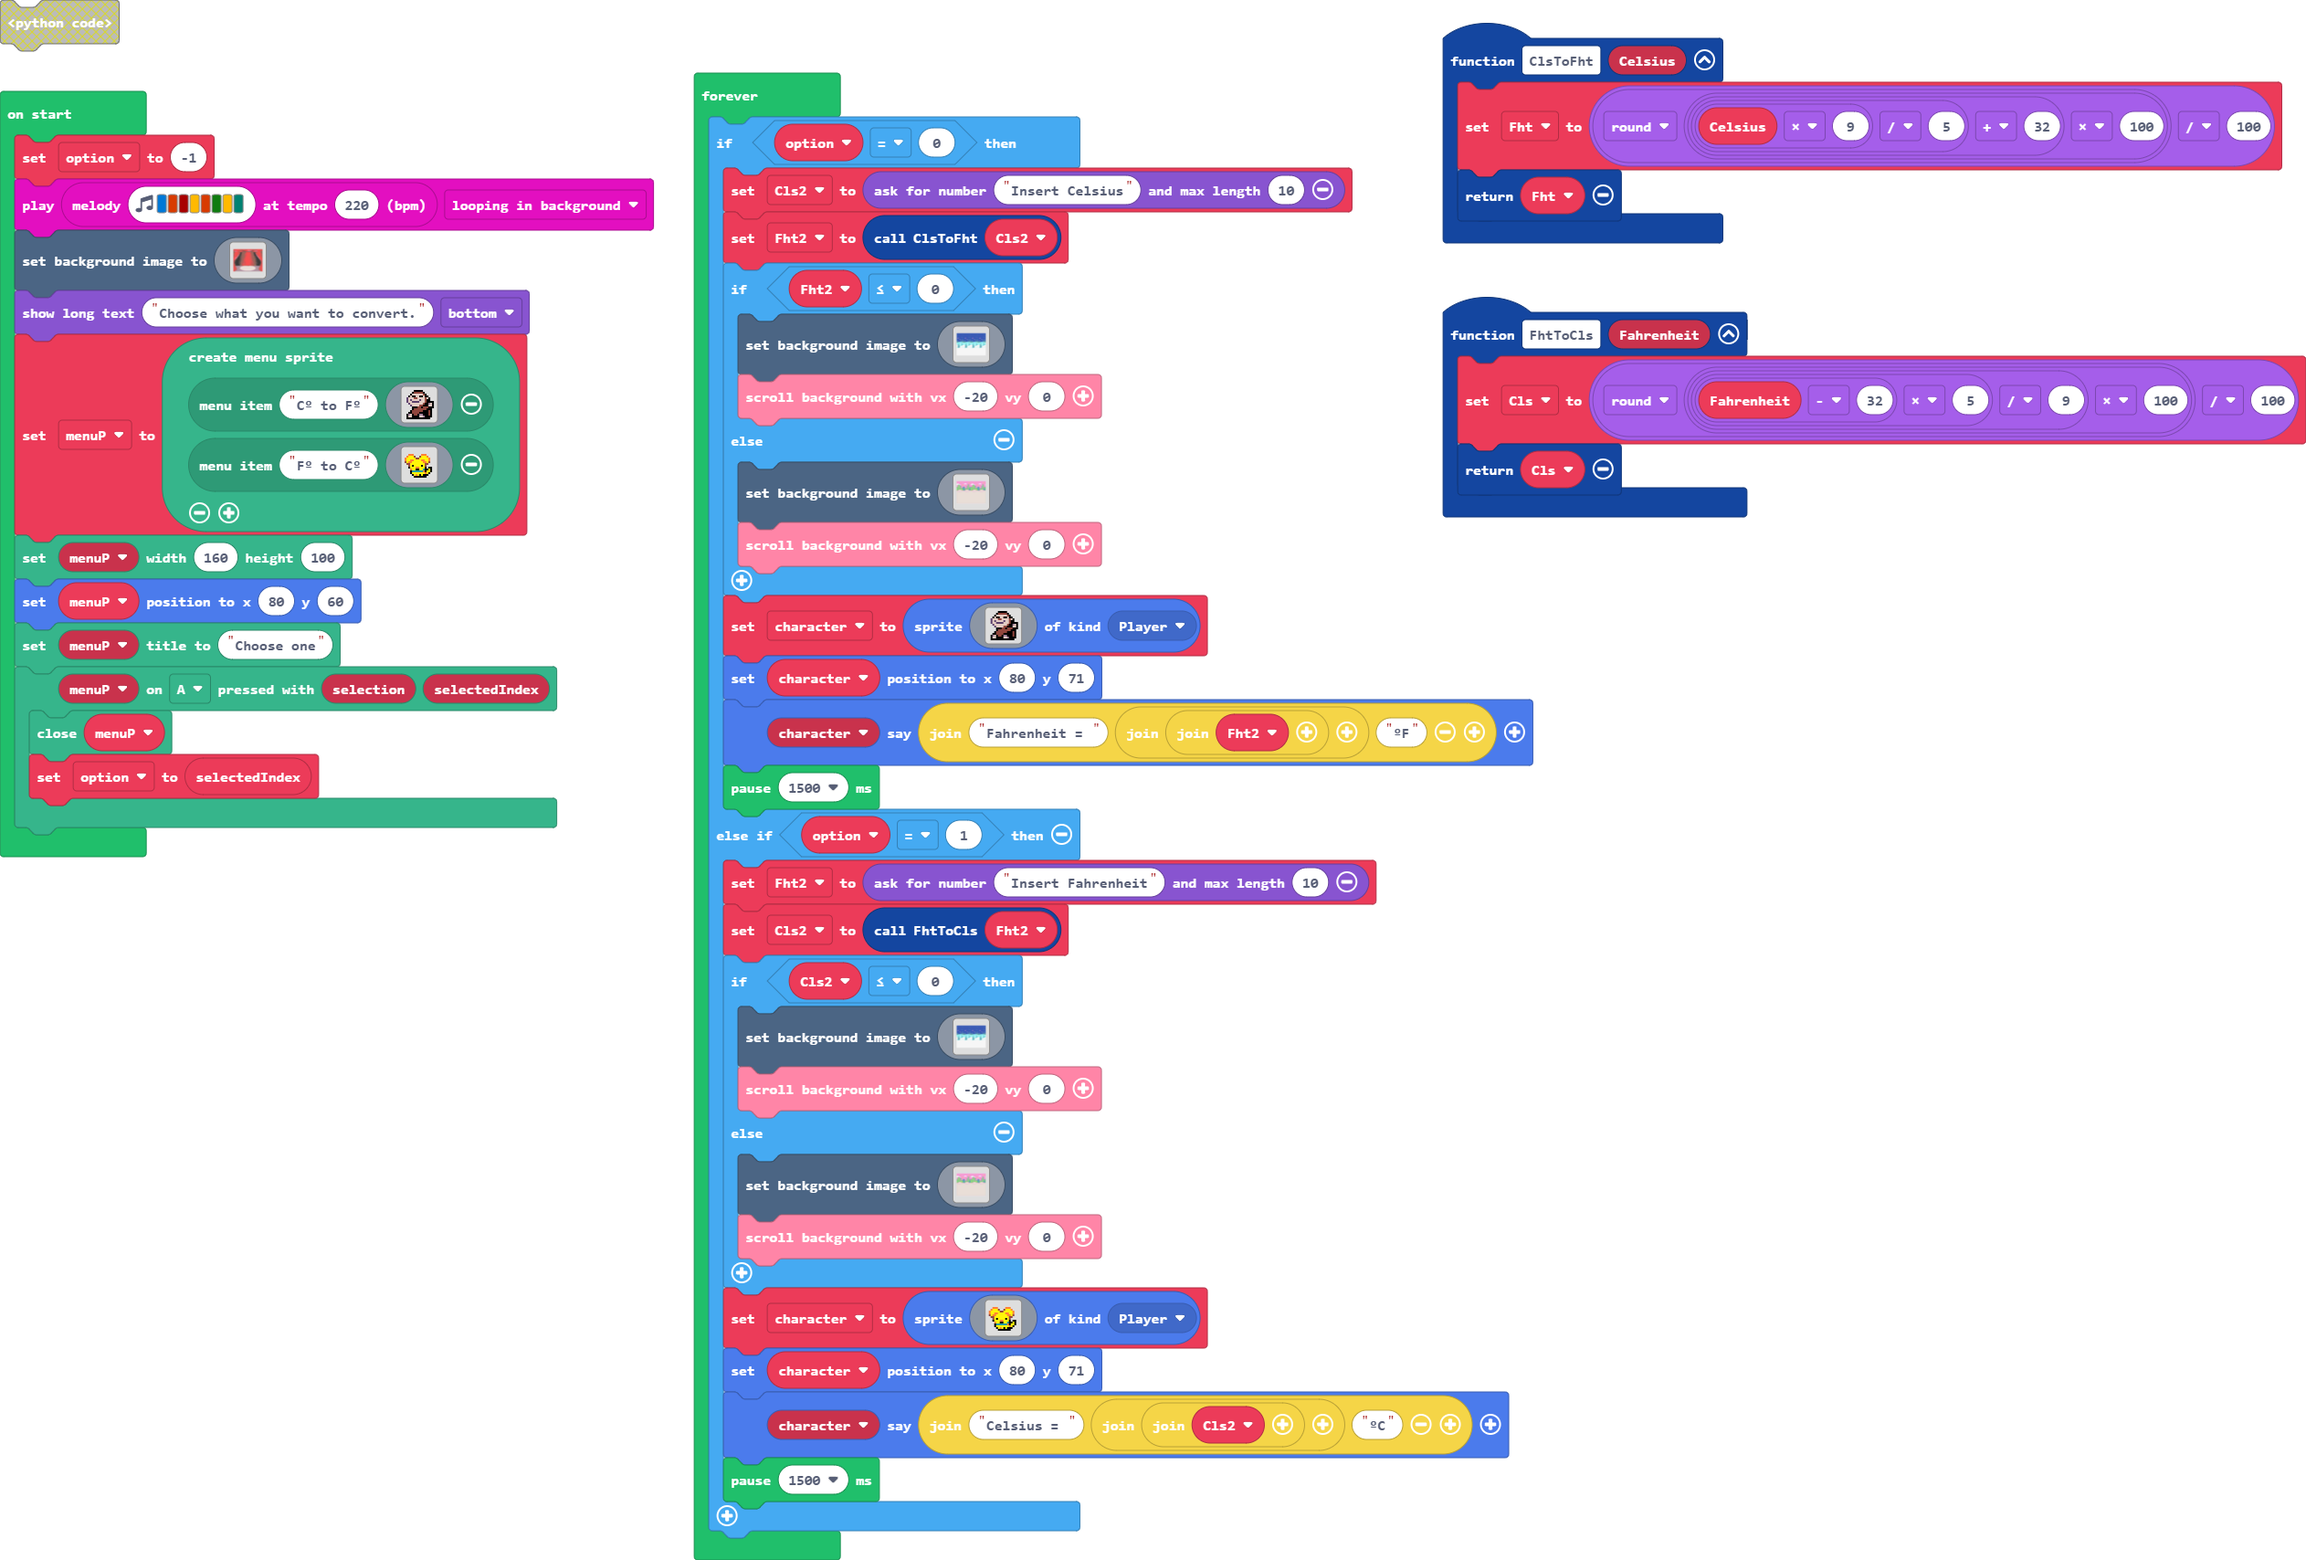
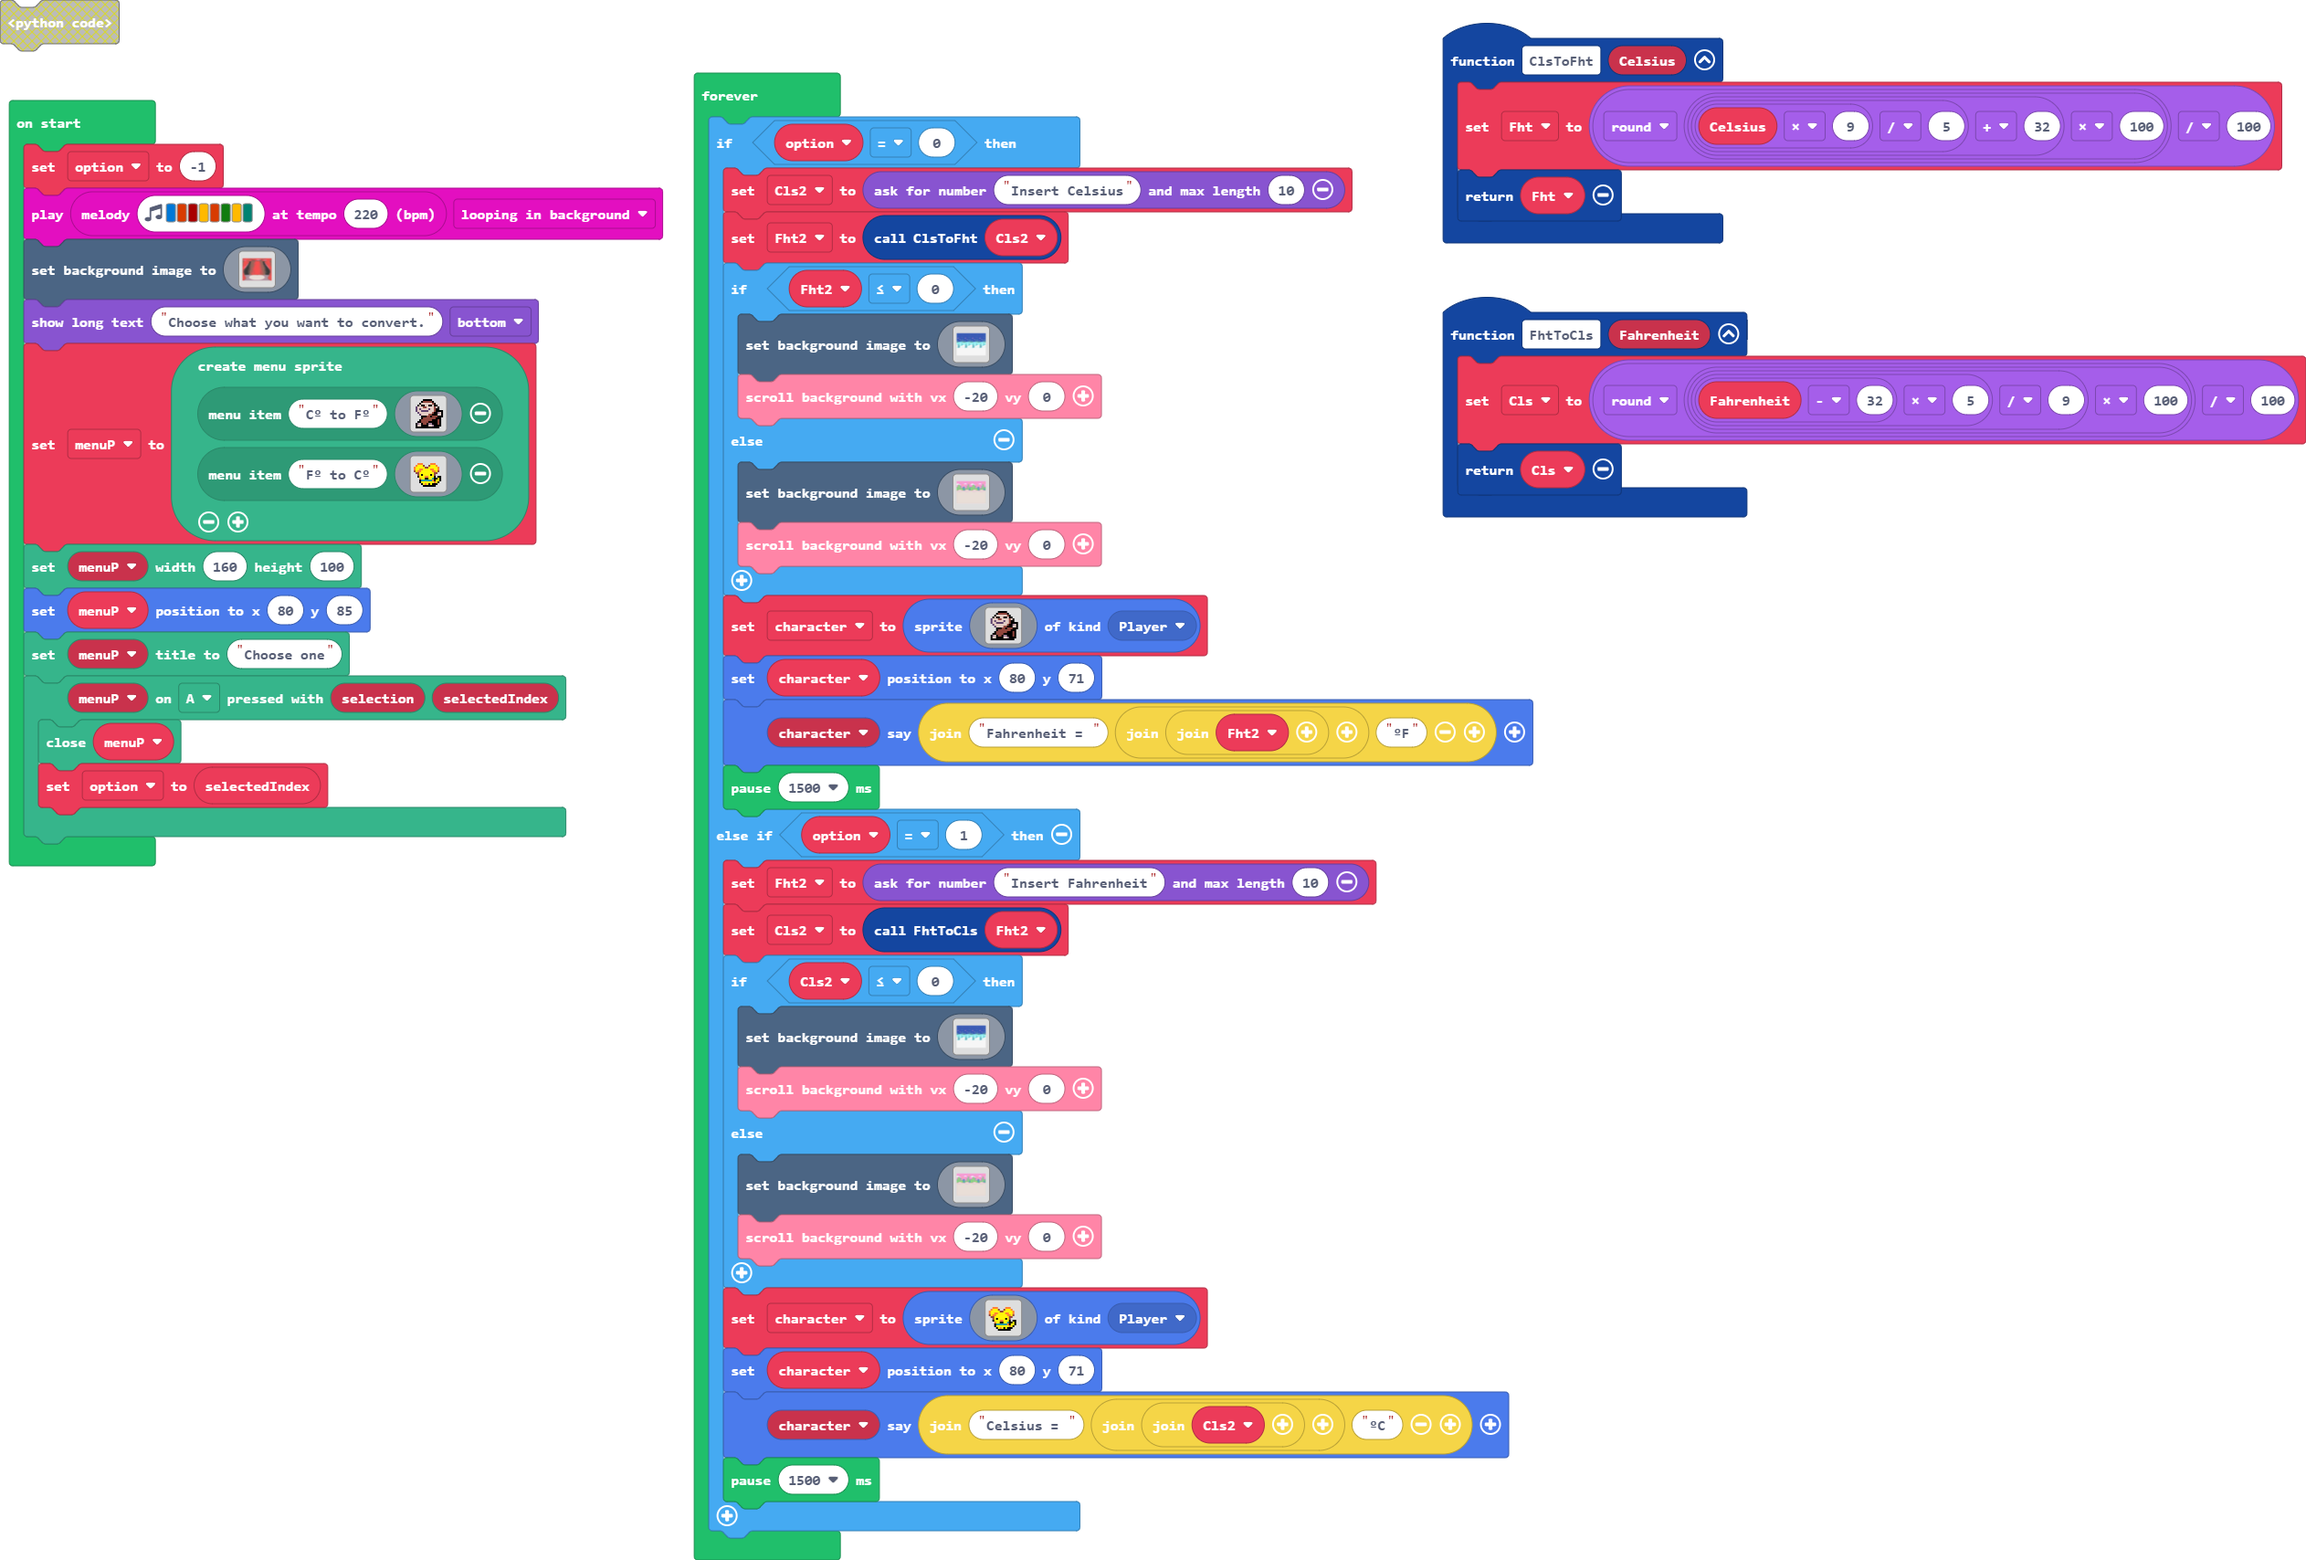
finalfinal

Changed region(s): [[0.0, 0.031, 0.3089, 0.5585]]

diff --git a/main.ts b/main.ts
@@ -174,7 +174,7 @@ let menuP = miniMenu.createMenu(miniMenu.createMenuItem("Cº to Fº", img`
                 . . . . . f f f f f f f . . . .
         `))
 menuP.setDimensions(160, 100)
-menuP.setPosition(80, 60)
+menuP.setPosition(80, 85)
 menuP.setTitle("Choose one")
 menuP.onButtonPressed(controller.A, function on_button_pressed(selection: any, selectedIndex: any) {
     

diff --git a/main.py b/main.py
@@ -174,7 +174,7 @@ menuP = miniMenu.create_menu(miniMenu.create_menu_item("Cº to Fº",
                 . . . . . f f f f f f f . . . .
         """)))
 menuP.set_dimensions(160, 100)
-menuP.set_position(80, 60)
+menuP.set_position(80, 85)
 menuP.set_title("Choose one")
 
 def on_button_pressed(selection, selectedIndex):
